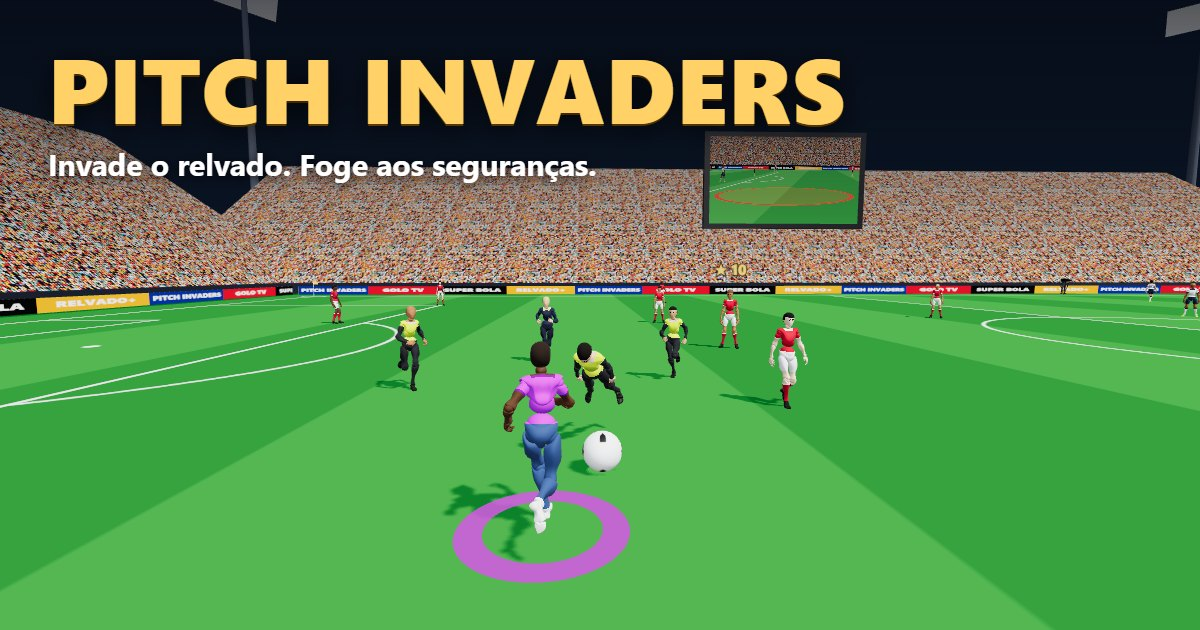
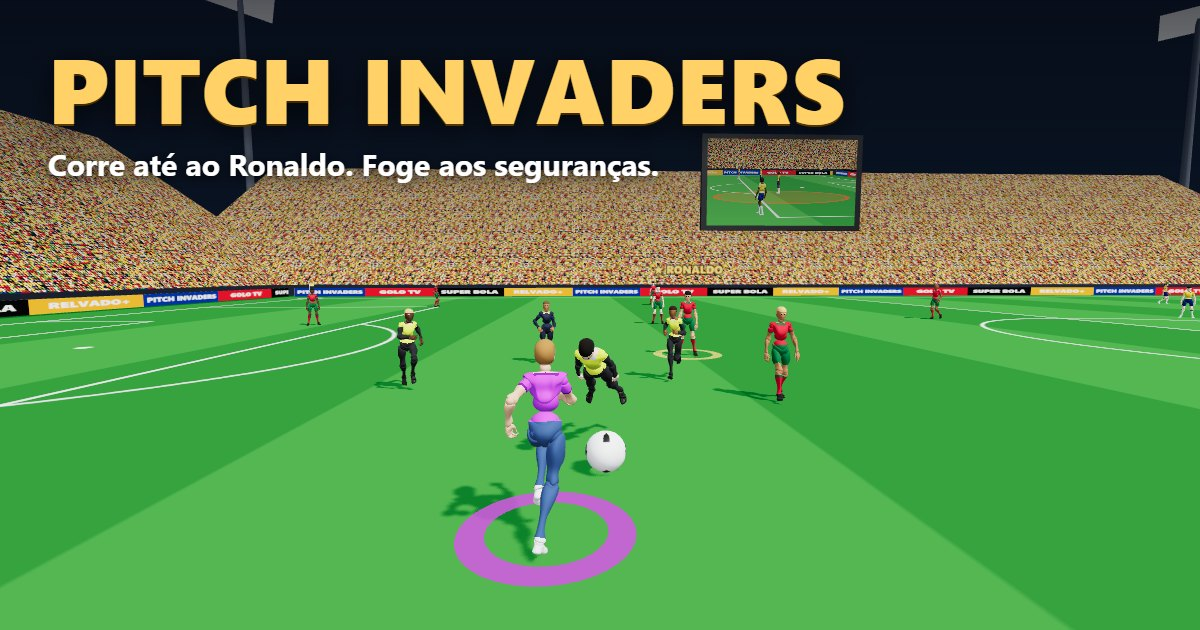
Portugal–Brasil e o Ronaldo
- Equipamentos de Portugal (vermelho/verde, números dourados) e do
  Brasil (amarelo/azul, números verdes), guarda-redes com cores próprias
- O craque passa a ser o Ronaldo: nº 7 de Portugal, "RONALDO 7" nas
  costas e nome por cima da cabeça (tamanho fixo no ecrã)
- Selfie com o Ronaldo com "SIUUU!" no ecrã
- Seta na borda do ecrã a apontar para o Ronaldo quando está fora da vista
- Público com as cores das duas seleções
- Textos, descrição do link e imagem de capa atualizados

diff --git a/src/entities/kits.js b/src/entities/kits.js
@@ -16,10 +16,11 @@ const HAIRS = ['#15100c', '#2b1d14', '#4a3020', '#6b4a2b', '#a8793f', '#d9b56c',
 const pick = a => a[Math.floor(Math.random() * a.length)];
 
 export const KITS = {
-  home:    { shirt: '#c8102e', sleeve: '#c8102e', trim: '#ffffff', shorts: '#f2f2f2', socks: '#c8102e', boots: '#111111', print: '#ffffff' },
-  away:    { shirt: '#f4f4f4', sleeve: '#f4f4f4', trim: '#1b2a4a', shorts: '#1b2a4a', socks: '#f4f4f4', boots: '#c6f432', print: '#1b2a4a' },
-  homeGk:  { shirt: '#1aa34a', sleeve: '#1aa34a', trim: '#0b3d1f', shorts: '#111111', socks: '#1aa34a', boots: '#111111', gloves: '#f2f2f2', longSleeves: true, print: '#ffffff' },
-  awayGk:  { shirt: '#f4a300', sleeve: '#f4a300', trim: '#222222', shorts: '#222222', socks: '#f4a300', boots: '#ffffff', gloves: '#222222', longSleeves: true, print: '#222222' },
+  // Portugal: vermelho com verde, números dourados · Brasil: amarelo com verde, calções azuis
+  portugal:   { shirt: '#c8102e', sleeve: '#c8102e', trim: '#046a38', shorts: '#046a38', socks: '#c8102e', boots: '#111111', print: '#f6c445' },
+  brazil:     { shirt: '#ffd400', sleeve: '#ffd400', trim: '#009c3b', shorts: '#002776', socks: '#f4f4f4', boots: '#f4f4f4', print: '#009c3b' },
+  portugalGk: { shirt: '#00a3a3', sleeve: '#00a3a3', trim: '#063b3b', shorts: '#063b3b', socks: '#00a3a3', boots: '#111111', gloves: '#f2f2f2', longSleeves: true, print: '#ffffff' },
+  brazilGk:   { shirt: '#1d1d1d', sleeve: '#1d1d1d', trim: '#009c3b', shorts: '#1d1d1d', socks: '#1d1d1d', boots: '#ffd400', gloves: '#ffd400', longSleeves: true, print: '#ffd400' },
   ref:     { shirt: '#141414', sleeve: '#141414', trim: '#ffd400', shorts: '#141414', socks: '#141414', boots: '#111111', print: '#ffd400' },
   steward: { shirt: '#d4f70f', sleeve: '#24262b', trim: '#c9d1d9', shorts: '#24262b', socks: '#24262b', boots: '#0d0d0d', longSleeves: true, trousers: true, print: '#111111', back: 'SEGURANÇA' },
   police:  { shirt: '#1f2a44', sleeve: '#1f2a44', trim: '#d9e021', shorts: '#182033', socks: '#182033', boots: '#0d0d0d', longSleeves: true, trousers: true, print: '#ffffff', back: 'POLÍCIA' },
@@ -124,10 +125,22 @@ export function makePrint() {
   const mesh = new THREE.Mesh(new THREE.PlaneGeometry(0.32, 0.16),
     new THREE.MeshStandardMaterial({ map, transparent: true, alphaTest: 0.35, roughness: 0.7, polygonOffset: true, polygonOffsetFactor: -2 }));
   mesh.visible = false;
-  mesh.userData.set = (text, color) => {
+  mesh.userData.set = (text, color, name) => {
     g.clearRect(0, 0, 256, 128);
     mesh.visible = !!text;
     if (!text) return;
+    g.textAlign = 'center'; g.textBaseline = 'middle'; g.fillStyle = color;
+    if (name) {
+      let ns = 30;
+      g.font = `900 ${ns}px "Arial Black", system-ui, sans-serif`;
+      const nw = g.measureText(name).width;
+      if (nw > 140) { ns *= 140 / nw; g.font = `900 ${ns}px "Arial Black", system-ui, sans-serif`; }
+      g.fillText(name, 128, 22);
+      g.font = '900 84px "Arial Black", system-ui, sans-serif';
+      g.fillText(text, 128, 84);
+      map.needsUpdate = true;
+      return;
+    }
     const big = String(text).length <= 2;
     let size = big ? 110 : 44;
     g.font = `900 ${size}px "Arial Black", system-ui, sans-serif`;

diff --git a/index.html b/index.html
@@ -10,7 +10,7 @@
 <link rel="preconnect" href="https://fonts.gstatic.com" crossorigin>
 <link rel="stylesheet" href="https://fonts.googleapis.com/css2?family=Anton&display=swap">
 <title>Pitch Invaders</title>
-<meta name="description" content="Invade o relvado, tira selfies com o craque, marca golos e foge aos seguranças. Jogo 3D grátis no browser.">
+<meta name="description" content="Invade o relvado no Portugal–Brasil, corre até ao Ronaldo para uma selfie e foge aos seguranças. Jogo 3D grátis no browser.">
 <meta name="theme-color" content="#0a1424">
 <link rel="icon" href="/favicon.svg" type="image/svg+xml">
 <link rel="canonical" href="https://improvee.pt/">
@@ -21,7 +21,7 @@
 <meta property="og:locale" content="pt_PT">
 <meta property="og:url" content="https://improvee.pt/">
 <meta property="og:title" content="Pitch Invaders — invade o relvado! ⚽">
-<meta property="og:description" content="Foge aos seguranças, tira selfies com o craque, marca golos e aparece no ecrã gigante. Jogo 3D grátis no browser.">
+<meta property="og:description" content="Invade o Portugal–Brasil, corre até ao Ronaldo para uma selfie e foge aos seguranças. Jogo 3D grátis no browser.">
 <meta property="og:image" content="https://improvee.pt/og-image.jpg">
 <meta property="og:image:type" content="image/jpeg">
 <meta property="og:image:width" content="1200">
@@ -29,7 +29,7 @@
 <meta property="og:image:alt" content="Invasor de campo a fugir de seguranças num estádio cheio">
 <meta name="twitter:card" content="summary_large_image">
 <meta name="twitter:title" content="Pitch Invaders — invade o relvado! ⚽">
-<meta name="twitter:description" content="Foge aos seguranças, tira selfies com o craque, marca golos e aparece no ecrã gigante.">
+<meta name="twitter:description" content="Invade o Portugal–Brasil, corre até ao Ronaldo para uma selfie e foge aos seguranças.">
 <meta name="twitter:image" content="https://improvee.pt/og-image.jpg">
 </head>
 <body>
@@ -49,6 +49,7 @@
 <canvas id="map" class="hidden" width="226" height="152"></canvas>
 <div id="gopro" class="hidden"><span class="rec">● REC</span><span id="tc">00:00:00</span><span>🔋 87%</span></div>
 <div id="warn" class="hidden">⚠ ATRÁS DE TI!</div>
+<div id="ronArrow" class="hidden"><span class="ar">➤</span><b>RONALDO</b></div>
 <div id="live" class="hidden"><span class="dot">●</span> EM DIRETO · ECRÃ GIGANTE <b>+40/s</b></div>
 <!-- Controlos de toque (telemóvel) -->
 <div id="touch" class="hidden">

diff --git a/src/entities/players.js b/src/entities/players.js
@@ -1,4 +1,4 @@
-// Jogadores das duas equipas (4-4-2), o craque nº 10 e o árbitro.
+// Portugal e Brasil (4-4-2), o Ronaldo (o craque que o invasor quer apanhar) e o árbitro.
 import { world } from '../state.js';
 import { HL, HW } from '../config.js';
 import { rand, clamp } from '../utils.js';
@@ -7,14 +7,18 @@ import { KITS } from './kits.js';
 
 // Guarda-redes, 4 defesas, 4 médios, 2 avançados (o último é o craque)
 const FORMATION = [[-49, 0], [-36, -20], [-38, -7], [-38, 7], [-36, 20], [-20, -22], [-22, -7], [-22, 7], [-20, 22], [-7, -9], [-7, 9]];
-const NUMBERS = [1, 2, 4, 5, 3, 7, 6, 8, 11, 9, 10];
-const STAR_INDEX = 10;
+const NUMBERS = [1, 2, 4, 5, 3, 8, 6, 10, 11, 9, 7];
+const STAR_INDEX = 10;                 // o Ronaldo: avançado de Portugal, nº 7
+const RONALDO_LOOK = { skin: '#d9a07a', hair: '#15100c', height: 1.04 };
 
 export function buildPlayers() {
-  const teams = [[1, KITS.home, KITS.homeGk], [-1, KITS.away, KITS.awayGk]];
+  const teams = [[1, KITS.portugal, KITS.portugalGk], [-1, KITS.brazil, KITS.brazilGk]];
   for (const [side, kit, gkKit] of teams) {
     FORMATION.forEach(([x, z], i) => {
-      const e = makeEntity(i === 0 ? gkKit : kit, x * side, z * side, { print: String(NUMBERS[i]) });
+      const ronaldo = side === 1 && i === STAR_INDEX;
+      const e = makeEntity(i === 0 ? gkKit : kit, x * side, z * side, ronaldo
+        ? { print: '7', printName: 'RONALDO', look: RONALDO_LOOK }
+        : { print: String(NUMBERS[i]) });
       Object.assign(e, { homeX: e.x, homeZ: e.z, tx: e.x, tz: e.z, wait: rand(0, 3), spd: 1.3, heading: side * Math.PI / 2 });
       world.npcs.push(e);
     });
@@ -24,7 +28,7 @@ export function buildPlayers() {
   star.cool = 0;
   world.star = star;
   world.starRing = ring('#ffd166', 0.7, 0.95);
-  star.ch.root.add(world.starRing, label('★ 10', '#ffd166'));
+  star.ch.root.add(world.starRing, label('★ RONALDO', '#ffd166'));
 
   const ref = makeEntity(KITS.ref, 0, 12, { print: '' });
   Object.assign(ref, { isRef: true, homeX: 0, homeZ: 12, tx: 0, tz: 12, wait: 1, spd: 1.3 });

diff --git a/src/ui/screenfx.js b/src/ui/screenfx.js
@@ -1,5 +1,7 @@
 // Efeitos de ecrã das câmaras: GoPro (REC), vinheta da cabeça, cansaço e "atrás de ti".
 import { game, world, view, camMode, firstPerson, relControls, inGame } from '../state.js';
+import * as THREE from 'three';
+import { camera } from '../systems/renderer.js';
 import { $, clamp, dist, pad2, forward } from '../utils.js';
 
 function timecode(t) {
@@ -26,4 +28,25 @@ export function updateScreenFx() {
     }
   }
   $('warn').classList.toggle('hidden', !behind);
+  updateRonaldoArrow();
+}
+
+// Seta na borda do ecrã a apontar para o Ronaldo quando ele está fora da vista
+const v = new THREE.Vector3();
+function updateRonaldoArrow() {
+  const el = $('ronArrow'), star = world.star;
+  if (game.state !== 'play' || !star || star.cool > 0) { el.classList.add('hidden'); return; }
+  v.set(star.x, 1.8, star.z).applyMatrix4(camera.matrixWorldInverse);
+  const behindCam = v.z > 0;                       // atrás da câmara
+  v.applyMatrix4(camera.projectionMatrix);
+  let x = v.x, y = v.y;
+  if (!behindCam && Math.abs(x) < 1 && Math.abs(y) < 1) { el.classList.add('hidden'); return; }   // está à vista
+  if (behindCam) { x = -x; y = -y; }
+  // Leva o ponto até à borda (com margem), mantendo a direção a partir do centro
+  const k = 1 / Math.max(Math.abs(x) / 0.86, Math.abs(y) / 0.78, 1e-6);
+  x *= k; y *= k;
+  const px = (x + 1) / 2 * innerWidth, py = (1 - y) / 2 * innerHeight;
+  el.classList.remove('hidden');
+  el.style.transform = `translate(${px}px, ${py}px) translate(-50%, -50%)`;
+  el.querySelector('.ar').style.transform = `rotate(${Math.atan2(-y * innerHeight, x * innerWidth)}rad)`;
 }

diff --git a/src/entities/character.js b/src/entities/character.js
@@ -68,7 +68,7 @@ function makeXbot(kit, look) {
   return {
     root,
     setKit(k) { kitPalette(k, look, palette); },
-    setPrint(text, color) { print.userData.set(text, color); },
+    setPrint(text, color, name) { print.userData.set(text, color, name); },
     // Mistura parado → andar → correr conforme a velocidade
     update(dt, sp) {
       const wI = clamp(1 - sp / 1.6, 0, 1), wR = clamp((sp - 2.2) / 2.8, 0, 1), wW = clamp(1 - wI - wR, 0, 1);
@@ -118,9 +118,9 @@ function makeProcedural(kit, look) {
 }
 
 // Uma "entidade" é a posição/velocidade no campo + o boneco que a representa
-export function makeEntity(kit, x, z, { look = randomLook(), print } = {}) {
+export function makeEntity(kit, x, z, { look = randomLook(), print, printName } = {}) {
   const ch = world.xbot ? makeXbot(kit, look) : makeProcedural(kit, look);
-  ch.setPrint(print ?? kit.back, kit.print);
+  ch.setPrint(print ?? kit.back, kit.print, printName);
   scene.add(ch.root);
   return { ch, x, z, vx: 0, vz: 0, heading: 0, tilt: 0, lift: 0 };
 }
@@ -147,7 +147,8 @@ export function ring(color, r1, r2) {
 }
 
 export function label(text, color) {
-  const s = new THREE.Sprite(new THREE.SpriteMaterial({ map: labelTexture(text, color), depthTest: false }));
-  s.scale.set(1.8, 0.68, 1); s.position.y = 2.45; s.renderOrder = 10;
+  // Tamanho fixo no ecrã: legível de longe, sem tapar a vista quando estás perto
+  const s = new THREE.Sprite(new THREE.SpriteMaterial({ map: labelTexture(text, color), depthTest: false, sizeAttenuation: false }));
+  s.scale.set(0.16, 0.034, 1); s.position.y = 2.45; s.renderOrder = 10;
   return s;
 }

diff --git a/src/ui/menus.js b/src/ui/menus.js
@@ -107,7 +107,7 @@ export function showMenu() {
     <section class="menu-main">
       <div class="kicker">⚽ Jogo 3D · grátis no browser</div>
       <h1 class="logo"><span>Pitch</span><span>Invaders</span></h1>
-      <p class="tagline">Salta para o relvado, tira selfies com o craque, marca golos e aparece no ecrã gigante, antes que os seguranças te apanhem.</p>
+      <p class="tagline">Salta para o relvado no Portugal–Brasil e corre até ao Ronaldo para a selfie da tua vida, antes que os seguranças te apanhem.</p>
       <div class="actions">
         <button class="btn-play" data-act="play">▶ Jogar</button>
         <button class="btn-icon" data-act="sound" aria-label="Som"></button>
@@ -117,7 +117,7 @@ export function showMenu() {
       <div class="chips">${cameraChips()}</div>
       <div class="section-title">Como ganhar pontos</div>
       <div class="score-grid">
-        <div class="sc"><i>📸</i><div><b>+${SCORE.selfie}</b><span>Selfie com o nº 10</span></div></div>
+        <div class="sc"><i>📸</i><div><b>+${SCORE.selfie}</b><span>Selfie com o Ronaldo</span></div></div>
         <div class="sc"><i>⚽</i><div><b>+${SCORE.goal}</b><span>Golo</span></div></div>
         <div class="sc"><i>📺</i><div><b>+${SCORE.tvPerSecond}/s</b><span>No círculo da TV</span></div></div>
         <div class="sc"><i>🤸</i><div><b>+${SCORE.dodge}</b><span>Drible a um mergulho</span></div></div>

diff --git a/src/world/textures.js b/src/world/textures.js
@@ -53,7 +53,7 @@ export function pitchTexture() {
 export function crowdCanvas() {
   const [c, g] = canvas(512, 256);
   g.fillStyle = '#151820'; g.fillRect(0, 0, 512, 256);
-  const shirts = ['#d0202a', '#d0202a', '#f4f4f4', '#1e3a8a', '#ffb703', '#2a9d8f', '#e76f51', '#8ecae6', '#222'];
+  const shirts = ['#c8102e', '#c8102e', '#c8102e', '#046a38', '#ffd400', '#ffd400', '#ffd400', '#009c3b', '#002776', '#f4f4f4', '#222'];
   const skins = ['#f1c27d', '#e0ac69', '#c68642', '#8d5524', '#ffdbac'];
   for (let row = 0, y = 8; y < 256; y += 12, row++) {
     for (let x = 4 + (row % 2) * 5; x < 512; x += 10) {
@@ -103,9 +103,13 @@ export function netTexture() {
 }
 
 export function labelTexture(text, color) {
-  const [c, g] = canvas(256, 96);
-  g.font = '900 64px system-ui, sans-serif'; g.textAlign = 'center'; g.textBaseline = 'middle';
-  g.lineWidth = 10; g.strokeStyle = 'rgba(0,0,0,.7)'; g.strokeText(text, 128, 50);
-  g.fillStyle = color; g.fillText(text, 128, 50);
+  const [c, g] = canvas(512, 110);
+  let size = 72;
+  g.font = `900 ${size}px system-ui, sans-serif`;
+  const w = g.measureText(text).width;
+  if (w > 480) { size *= 480 / w; g.font = `900 ${size}px system-ui, sans-serif`; }
+  g.textAlign = 'center'; g.textBaseline = 'middle';
+  g.lineWidth = 12; g.strokeStyle = 'rgba(0,0,0,.7)'; g.strokeText(text, 256, 58);
+  g.fillStyle = color; g.fillText(text, 256, 58);
   return texture(c);
 }

diff --git a/src/systems/game.js b/src/systems/game.js
@@ -53,8 +53,8 @@ export function tryStart() {
   crowdCheer(0.9);                             // o público vibra quando entras em campo
   if (firstGame) {
     toast(isTouch()
-      ? `🕹 Joystick à esquerda · FINTA à direita · 📺 entra no círculo vermelho (+${SCORE.tvPerSecond}/s)`
-      : `📺 Entra no círculo vermelho para apareceres no ecrã gigante (+${SCORE.tvPerSecond}/s)`);
+      ? `🕹 Joystick à esquerda · FINTA à direita · ⭐ corre até ao Ronaldo!`
+      : `⭐ Corre até ao Ronaldo para a selfie · 📺 no círculo vermelho apareces no ecrã gigante`);
     firstGame = false;
   }
 }
@@ -88,7 +88,8 @@ function trySelfie() {
   game.selfies++;
   star.cool = 2.5;
   flash();
-  float(`+${SCORE.selfie} SELFIE! 📸`, star.x, star.z, '#ffd166');
+  float(`+${SCORE.selfie} SELFIE COM O RONALDO! 📸`, star.x, star.z, '#ffd166');
+  setTimeout(() => float('SIUUU!', star.x, star.z, '#ffd166', true), 350);
   beep(880, 0.08); setTimeout(() => beep(1320, 0.12), 80);
   crowdCheer(0.6);
   starRunAway(invader);

diff --git a/src/ui/floats.js b/src/ui/floats.js
@@ -11,7 +11,7 @@ export function float(text, x, z, color, huge = false) {
   el.textContent = text;
   el.style.color = color;
   document.body.appendChild(el);
-  floats.push({ el, x, z, t: 0 });
+  floats.push({ el, x, z, t: 0, y0: huge ? 4.4 : 2.8 });      // os grandes ficam por cima dos pequenos
 }
 
 export function updateFloats(dt) {
@@ -19,7 +19,7 @@ export function updateFloats(dt) {
     const f = floats[i];
     f.t += dt;
     if (f.t > LIFE) { f.el.remove(); floats.splice(i, 1); continue; }
-    proj.set(f.x, 2.8 + f.t * 1.5, f.z).project(camera);
+    proj.set(f.x, f.y0 + f.t * 1.5, f.z).project(camera);
     f.el.style.transform = `translate(${(proj.x + 1) / 2 * innerWidth}px, ${(1 - proj.y) / 2 * innerHeight}px) translate(-50%, -50%)`;
     f.el.style.opacity = 1 - f.t / LIFE;
   }

diff --git a/src/style.css b/src/style.css
@@ -223,3 +223,9 @@ body.touch #gopro { top: calc(64px + var(--safe-t)); }
   font-weight: 800; font-size: 13px; letter-spacing: .02em; cursor: pointer; }
 .tabs button:hover { color: #fff; }
 .tabs button[aria-selected="true"] { background: var(--gold); color: #1a1200; }
+
+/* Seta para o Ronaldo */
+#ronArrow { position: fixed; left: 0; top: 0; display: flex; align-items: center; gap: 6px; padding: 5px 10px 5px 6px; border-radius: 999px;
+  background: rgba(10,14,28,.78); border: 1px solid rgba(255,209,102,.6); color: var(--gold); font-size: 13px; letter-spacing: .06em;
+  pointer-events: none; white-space: nowrap; box-shadow: 0 0 18px rgba(255,209,102,.45); }
+#ronArrow .ar { display: inline-block; font-size: 18px; line-height: 1; }
